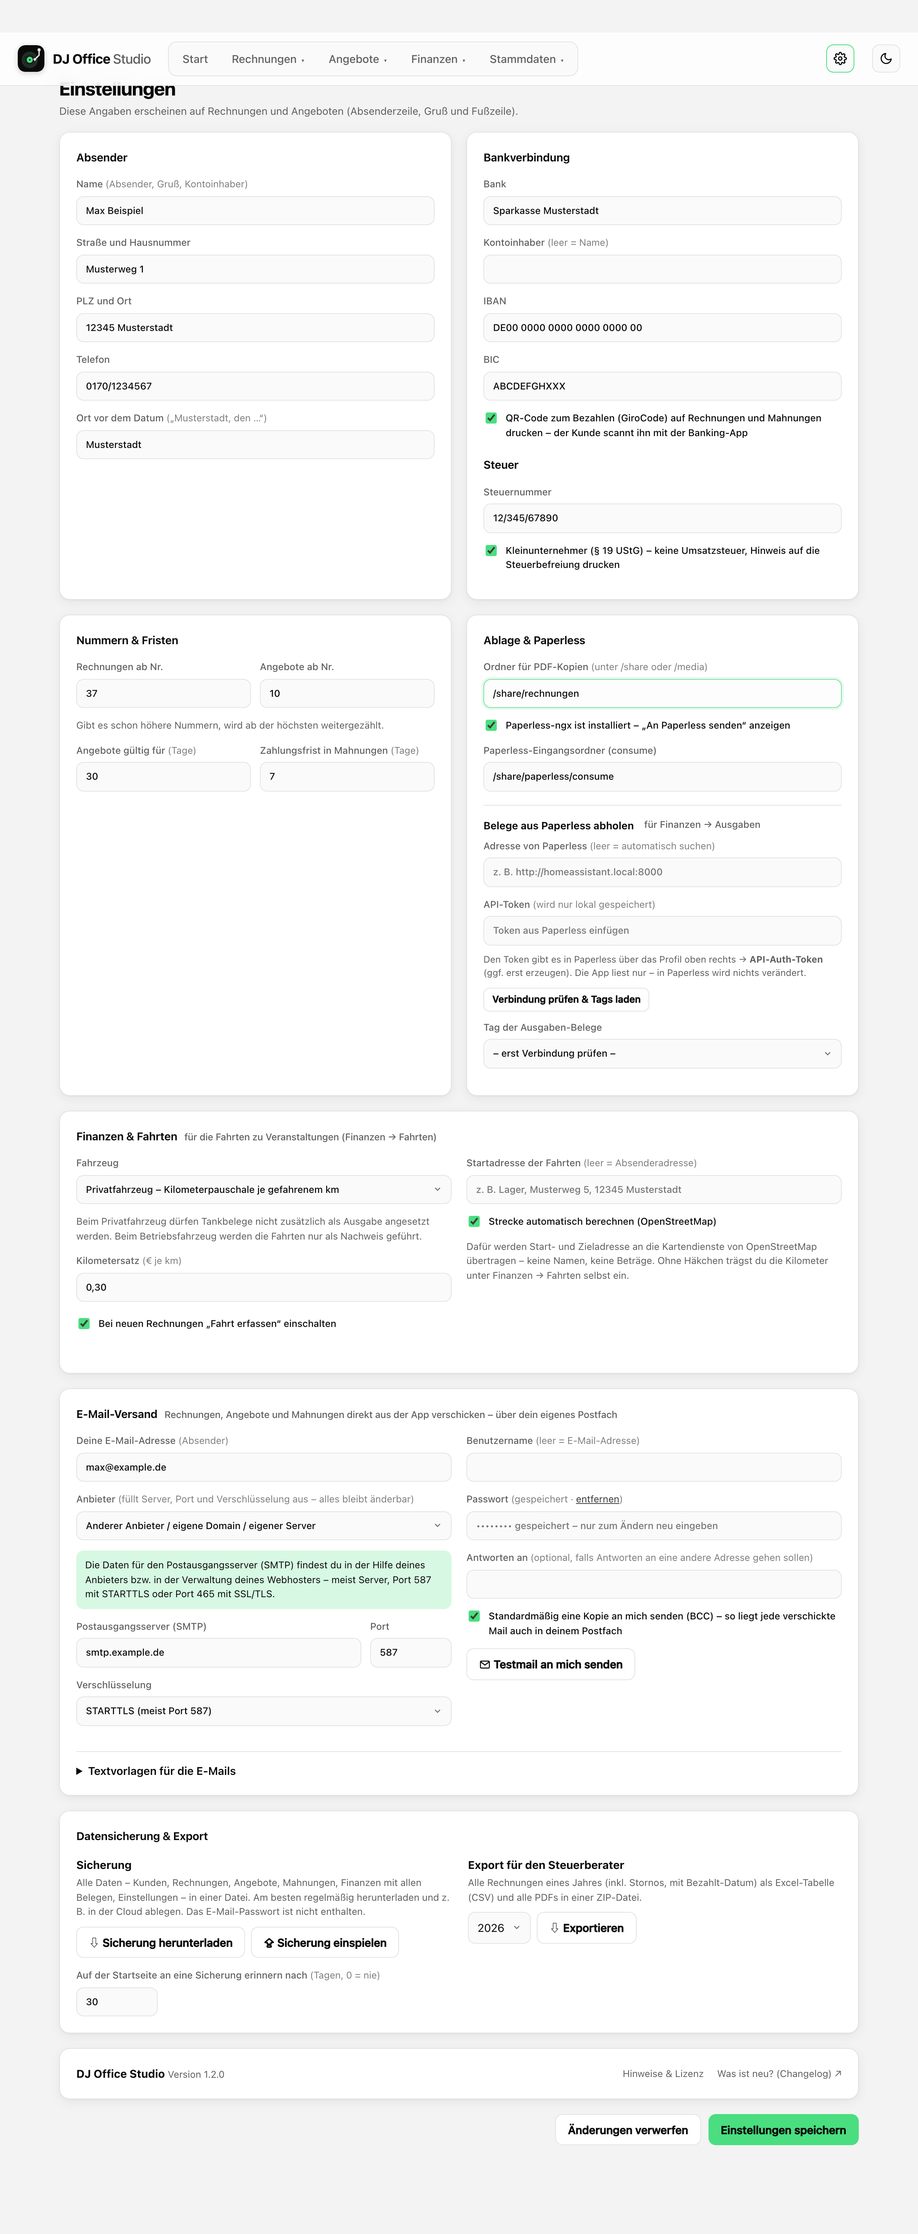
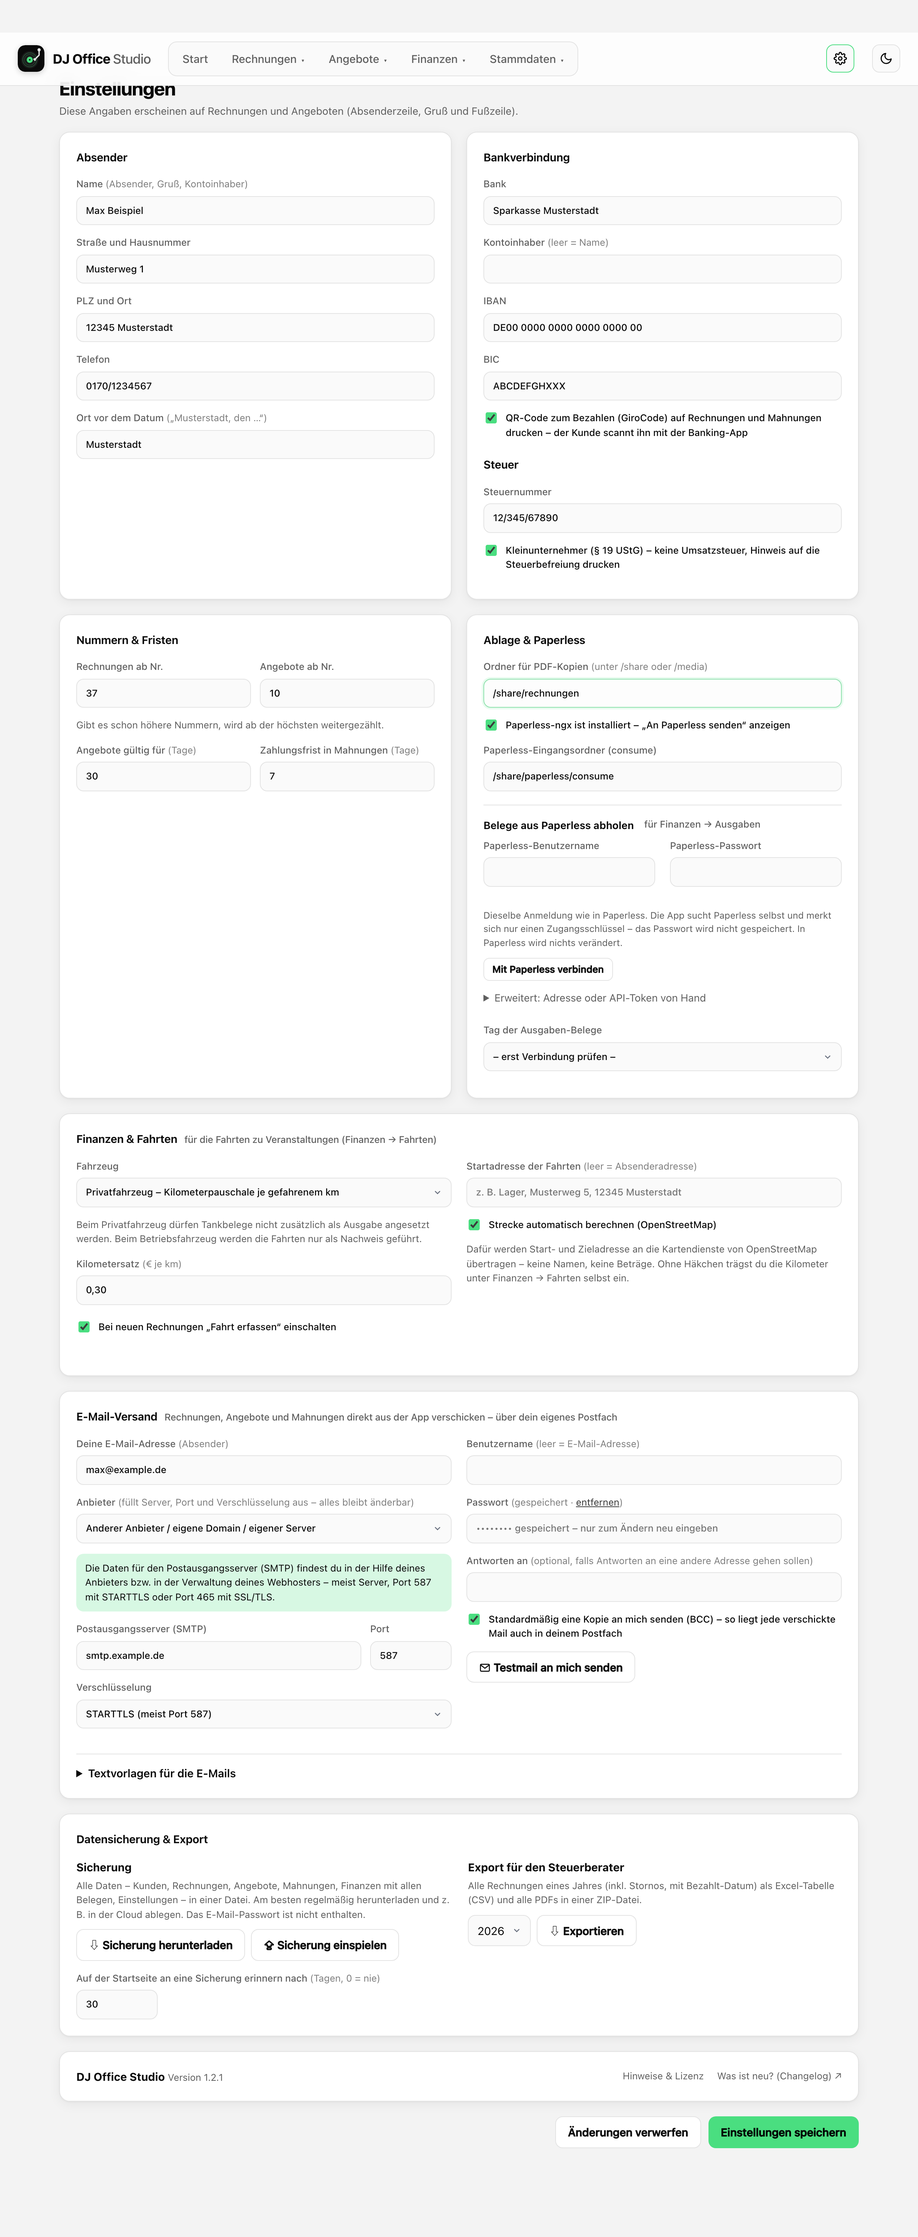
Version 1.2.1: Paperless-Add-on automatisch finden, Anmeldung mit Benutzername und Passwort

diff --git a/rechnungen/app/static/finanzen.js b/rechnungen/app/static/finanzen.js
@@ -817,11 +817,20 @@ function plEinstellungen(werte) {
   f.paperless_token.placeholder = werte.paperless_token_gesetzt ? "•••••••• gespeichert – nur zum Ändern neu eingeben" : "Token aus Paperless einfügen";
   $("#pl-token-status").textContent = werte.paperless_token_gesetzt ? "(gespeichert)" : "(wird nur lokal gespeichert)";
   plTagAuswahl(null, werte.paperless_tag, werte.paperless_tag_name);
+  const verbunden = werte.paperless_token_gesetzt && werte.paperless_url;
+  $("#pl-verbunden").hidden = !verbunden;
+  $("#pl-verbunden").textContent = verbunden ? `✓ Verbunden mit ${werte.paperless_url} – erneut anmelden nur bei Problemen.` : "";
+  $("#pl-verbinden").textContent = verbunden ? "Tags neu laden" : "Mit Paperless verbinden";
 }
 
-$("#einstellungen").elements.paperless_tag.addEventListener("change", e => {
-  const o = e.target.selectedOptions[0];
-  $("#einstellungen").elements.paperless_tag_name.value = Number(o.value) ? o.textContent.replace(/ \(\d+ Dokumente?\)$/, "") : "";
+$("#einstellungen").elements.paperless_tag.addEventListener("change", async e => {
+  const o = e.target.selectedOptions[0], f = $("#einstellungen").elements;
+  f.paperless_tag_name.value = Number(o.value) ? o.textContent.replace(/ \(\d+ Dokumente?\)$/, "") : "";
+  try {   // Tag sofort speichern – kein extra Klick auf „Speichern“ nötig
+    await api("einstellungen", { method: "PUT", body: { paperless_tag: o.value, paperless_tag_name: f.paperless_tag_name.value } });
+    await ladeAbsender();
+    if (Number(o.value)) toast(`Tag „${f.paperless_tag_name.value}“ gespeichert – unter Finanzen → Ausgaben „Aus Paperless abholen“`);
+  } catch (err) { toast(err.message, true); }
 });
 
 $("#pl-verbinden").addEventListener("click", async e => {
@@ -829,15 +838,22 @@ $("#pl-verbinden").addEventListener("click", async e => {
   btn.disabled = true;
   status.textContent = f.paperless_url.value.trim() ? "Verbinde …" : "Suche Paperless …";
   try {
-    const r = await api("paperless/verbinden", { method: "POST", body: { url: f.paperless_url.value.trim(), token: f.paperless_token.value.trim() } });
+    const r = await api("paperless/verbinden", { method: "POST", body: {
+      url: f.paperless_url.value.trim(), token: f.paperless_token.value.trim(),
+      benutzer: $("#pl-benutzer").value.trim(), passwort: $("#pl-passwort").value } });
     f.paperless_url.value = r.url;
+    $("#pl-passwort").value = "";
     if (!r.tags) { status.textContent = r.hinweis; return; }
+    if (r.token_gespeichert) plEinstellungen({ ...await api("einstellungen") });
     plTagAuswahl(r.tags, f.paperless_tag.value, f.paperless_tag_name.value);
-    status.textContent = `✓ Verbunden${r.gefunden ? " (automatisch gefunden)" : ""} – ${r.tags.length} Tags. Tag wählen und speichern.`;
-    if (!Number(f.paperless_tag.value)) {   // naheliegenden Tag vorschlagen
+    const gefunden = r.gefunden ? r.gefunden + " – " : "";
+    if (!Number(f.paperless_tag.value)) {   // naheliegenden Tag vorschlagen (wird sofort gespeichert)
       const v = r.tags.find(t => /ausgabe|beleg|eür|euer|steuer|rechnung/i.test(t.name));
       if (v) { f.paperless_tag.value = v.id; f.paperless_tag.dispatchEvent(new Event("change")); }
     }
+    status.textContent = Number(f.paperless_tag.value)
+      ? `✓ ${gefunden}verbunden. Tag „${f.paperless_tag_name.value}“ ist eingestellt – unten änderbar.`
+      : `✓ ${gefunden}verbunden. Jetzt unten den Tag deiner Ausgaben wählen.`;
   } catch (err) { status.textContent = ""; toast(err.message, true); }
   finally { btn.disabled = false; }
 });

diff --git a/rechnungen/app/static/index.html b/rechnungen/app/static/index.html
@@ -390,15 +390,23 @@
             <label>Paperless-Eingangsordner (consume) <span class="opt nur-desktop">(z. B. Netzlaufwerk von Paperless)</span><input name="paperless_eingangsordner" placeholder="/share/paperless/consume"></label>
             <div class="pl-belege">
               <h3>Belege aus Paperless abholen <span class="h2-sub">für Finanzen → Ausgaben</span></h3>
-              <label>Adresse von Paperless <span class="opt">(leer = automatisch suchen)</span>
-                <input name="paperless_url" placeholder="z. B. http://homeassistant.local:8000" autocomplete="off"></label>
-              <label>API-Token <span class="opt" id="pl-token-status"></span>
-                <input name="paperless_token" type="password" autocomplete="new-password"></label>
-              <p class="mini-hinweis">Den Token gibt es in Paperless über das Profil oben rechts → <b>API-Auth-Token</b> (ggf. erst erzeugen). Die App liest nur – in Paperless wird nichts verändert.</p>
+              <p class="hint pl-verbunden" id="pl-verbunden" hidden></p>
+              <div class="grid2 pl-anmeldung">
+                <label>Paperless-Benutzername<input id="pl-benutzer" autocomplete="off"></label>
+                <label>Paperless-Passwort<input id="pl-passwort" type="password" autocomplete="new-password"></label>
+              </div>
+              <p class="mini-hinweis">Dieselbe Anmeldung wie in Paperless. Die App sucht Paperless selbst und merkt sich nur einen Zugangsschlüssel – das Passwort wird nicht gespeichert. In Paperless wird nichts verändert.</p>
               <div class="row pl-verbinden-zeile">
-                <button type="button" class="small secondary" id="pl-verbinden">Verbindung prüfen &amp; Tags laden</button>
+                <button type="button" class="small secondary" id="pl-verbinden">Mit Paperless verbinden</button>
                 <span class="hint" id="pl-verbinden-status"></span>
               </div>
+              <details class="pl-erweitert">
+                <summary>Erweitert: Adresse oder API-Token von Hand</summary>
+                <label>Adresse von Paperless <span class="opt">(leer = automatisch suchen)</span>
+                  <input name="paperless_url" placeholder="z. B. http://homeassistant.local:8000" autocomplete="off"></label>
+                <label>API-Token <span class="opt" id="pl-token-status"></span>
+                  <input name="paperless_token" type="password" autocomplete="new-password"></label>
+              </details>
               <label>Tag der Ausgaben-Belege
                 <select name="paperless_tag"><option value="0">– erst Verbindung prüfen –</option></select></label>
               <input type="hidden" name="paperless_tag_name">

diff --git a/rechnungen/app/static/style.css b/rechnungen/app/static/style.css
@@ -656,3 +656,7 @@ table.euer-tabelle tr.gewinn td { font-weight: 800; font-size: 17px; border-top:
 .pl-verbinden-zeile { align-items: center; gap: 12px; margin-bottom: 12px; }
 .pl-verbinden-zeile .hint { margin: 0; }
 #pl-verbinden { white-space: nowrap; flex: none; }
+.pl-anmeldung { margin-bottom: 0; }
+.pl-verbunden { color: var(--text); margin: 0 0 10px; }
+.pl-erweitert { margin: 4px 0 14px; font-size: 14px; }
+.pl-erweitert summary { cursor: pointer; color: var(--muted); margin-bottom: 10px; }

diff --git a/rechnungen/app/paperless.py b/rechnungen/app/paperless.py
@@ -4,6 +4,7 @@ Anmeldung mit dem API-Token aus Paperless (Profil → API-Token). Die App holt D
 als Ausgaben-Belege ab; an Paperless selbst wird nichts geändert.
 """
 import json
+import os
 import re
 import urllib.error
 import urllib.parse
@@ -18,6 +19,9 @@ KANDIDATEN = (
     "http://homeassistant:8000",
     "http://localhost:8000",
 )
+
+
+BEKANNTE_ADDONS = ("ca5234a0_paperless-ngx", "db21ed7f_paperless_ngx")
 
 
 class PaperlessFehler(Exception):
@@ -86,8 +90,76 @@ def erreichbar(url, timeout=3):
         return False
 
 
+def _supervisor(pfad):
+    """Supervisor-Schnittstelle von Home Assistant (nur im Add-on; braucht „hassio_api: true“)."""
+    token = os.environ.get("SUPERVISOR_TOKEN")
+    if not token:
+        return None
+    req = urllib.request.Request("http://supervisor" + pfad, headers={"Authorization": f"Bearer {token}"})
+    try:
+        with urllib.request.urlopen(req, timeout=5) as r:
+            return json.loads(r.read()).get("data")
+    except Exception:
+        return None
+
+
+def addon_kandidaten():
+    """Installierte Paperless-Add-ons → [(name, läuft, [Adressen])]. Hostname und Ports liefert der Supervisor."""
+    # Die Liste der installierten Add-ons steht in /info (für jedes Add-on lesbar; /addons bräuchte mehr Rechte).
+    # Zur Sicherheit auch die bekannten Paperless-Add-ons direkt abfragen.
+    liste = list((_supervisor("/info") or {}).get("addons") or [])
+    for slug in BEKANNTE_ADDONS:
+        if not any(a.get("slug") == slug for a in liste) and _supervisor(f"/addons/{slug}/info"):
+            liste.append({"slug": slug, "name": "Paperless-ngx"})
+    ergebnis = []
+    for a in liste:
+        if "paperless" not in (a.get("slug", "") + " " + a.get("name", "")).lower():
+            continue
+        info = _supervisor(f"/addons/{a['slug']}/info") or {}
+        if not info and a.get("name") == "Paperless-ngx" and a["slug"] in BEKANNTE_ADDONS:
+            continue
+        hosts = [h for h in (info.get("hostname"), info.get("ip_address"), a["slug"].replace("_", "-")) if h]
+        ports = [int(str(k).split("/")[0]) for k in (info.get("network") or {})]   # Ports im Container, z. B. „8000/tcp“
+        ports += [p for p in (8000, info.get("ingress_port")) if p and p not in ports]
+        ergebnis.append((a.get("name") or a["slug"], (info.get("state") or a.get("state")) == "started",
+                         [f"http://{h}:{p}" for h in dict.fromkeys(hosts) for p in ports]))
+    return ergebnis
+
+
 def suchen():
-    return next((u for u in KANDIDATEN if erreichbar(u)), None)
+    """Paperless finden → (adresse | None, hinweis). Zuerst über Home Assistant, dann übliche Adressen im Heimnetz."""
+    addons = addon_kandidaten()
+    for name, laeuft, adressen in addons:
+        for u in adressen:
+            if erreichbar(u):
+                return u, f"Add-on „{name}“ gefunden"
+    if addons and not any(laeuft for _, laeuft, _ in addons):
+        return None, f"Das Add-on „{addons[0][0]}“ ist installiert, läuft aber nicht – bitte in Home Assistant starten."
+    for u in KANDIDATEN:
+        if erreichbar(u):
+            return u, "Paperless gefunden"
+    if addons:
+        return None, f"Das Add-on „{addons[0][0]}“ antwortet nicht – bitte die Adresse von Hand eintragen."
+    return None, "Paperless wurde nicht gefunden – bitte die Adresse eintragen (z. B. http://homeassistant.local:8000)."
+
+
+def token_holen(url, benutzer, passwort, ssl_kontext=None):
+    """API-Token mit Benutzername und Passwort von Paperless abrufen (das Passwort wird nicht gespeichert)."""
+    req = urllib.request.Request(adresse(url) + "/api/token/", method="POST",
+                                 data=urllib.parse.urlencode({"username": benutzer, "password": passwort}).encode(),
+                                 headers={"Accept": "application/json", "Content-Type": "application/x-www-form-urlencoded"})
+    try:
+        with urllib.request.urlopen(req, timeout=15, context=ssl_kontext) as r:
+            token = json.loads(r.read()).get("token")
+    except urllib.error.HTTPError as e:
+        if e.code == 400:
+            raise PaperlessFehler("Benutzername oder Passwort stimmt nicht") from e
+        raise PaperlessFehler(f"Paperless meldet Fehler {e.code}") from e
+    except (urllib.error.URLError, OSError, ValueError) as e:
+        raise PaperlessFehler("Paperless ist nicht erreichbar") from e
+    if not token:
+        raise PaperlessFehler("Paperless hat keinen Token geliefert")
+    return token
 
 
 def tags(url, token, ssl_kontext=None):

diff --git a/tests/test_paperless_belege.py b/tests/test_paperless_belege.py
@@ -49,6 +49,15 @@ class FakePaperless(BaseHTTPRequestHandler):
         self.end_headers()
         self.wfile.write(roh)
 
+    def do_POST(self):
+        if self.path == "/api/token/":
+            laenge = int(self.headers.get("Content-Length") or 0)
+            q = {k: v[0] for k, v in parse_qs(self.rfile.read(laenge).decode()).items()}
+            if q.get("username") == "max" and q.get("password") == "pw":
+                return self._json({"token": TOKEN})
+            return self._json({"non_field_errors": ["Unable to log in with provided credentials."]}, 400)
+        self._json({"detail": "Nicht gefunden."}, 404)
+
     def do_GET(self):
         teile = urlsplit(self.path)
         q = {k: v[0] for k, v in parse_qs(teile.query).items()}
@@ -101,7 +110,7 @@ def test_verbinden_laedt_tags_und_prueft_token(client, paperless_server):
     r = client.post("/api/paperless/verbinden", json={"url": paperless_server, "token": TOKEN}).get_json()
     assert [t["name"] for t in r["tags"]] == ["Ausgaben DJ", "Privat"]
     r = client.post("/api/paperless/verbinden", json={"url": paperless_server}).get_json()      # ohne Token
-    assert r["tags"] is None and "Token" in r["hinweis"]
+    assert r["tags"] is None and "anmelden" in r["hinweis"]
     r = client.post("/api/paperless/verbinden", json={"url": "http://127.0.0.1:9", "token": TOKEN})
     assert r.status_code == 400 and "nicht erreichbar" in r.get_json()["error"]
 
@@ -150,3 +159,46 @@ def test_abholen_ohne_einrichtung_und_mit_falschem_token(client, paperless_serve
     st = client.post("/api/paperless/abholen").get_json()
     assert "Token" in st["abbruch"] and not st["laeuft"]
     assert client.post("/api/paperless/abholen").get_json()["abbruch"]                         # Sperre wieder frei
+
+
+def _supervisor_mit(monkeypatch, port, state="started"):
+    """Home Assistant nachbilden: ein installiertes Paperless-Add-on, dessen Container-Port auf den Testserver zeigt."""
+    import paperless
+    monkeypatch.setenv("SUPERVISOR_TOKEN", "sv")
+    antworten = {"/info": {"addons": [{"slug": "dbcd1234_samba", "name": "Samba share"},
+                                        {"slug": "ca5234a0_paperless-ngx", "name": "Paperless-ngx", "state": state}]},
+                 "/addons/ca5234a0_paperless-ngx/info": {"hostname": "127.0.0.1", "network": {f"{port}/tcp": None},
+                                                         "ingress_port": 8099, "state": state}}
+    monkeypatch.setattr(paperless, "_supervisor", lambda pfad: antworten.get(pfad))
+    monkeypatch.setattr(paperless, "KANDIDATEN", ())
+
+
+def test_findet_addon_und_meldet_mit_benutzer_an(client, paperless_server, monkeypatch):
+    _supervisor_mit(monkeypatch, paperless_server.rsplit(":", 1)[1])
+    r = client.post("/api/paperless/verbinden", json={"benutzer": "max", "passwort": "pw"}).get_json()
+    assert r["url"] == paperless_server and "Paperless-ngx" in r["gefunden"] and r["token_gespeichert"]
+    assert [t["name"] for t in r["tags"]] == ["Ausgaben DJ", "Privat"]
+    r = client.post("/api/paperless/verbinden", json={"benutzer": "max", "passwort": "falsch"})   # Adresse jetzt gemerkt
+    assert r.status_code == 400 and "Passwort" in r.get_json()["error"]
+    e = client.get("/api/einstellungen").get_json()                                          # Adresse und Token gemerkt,
+    assert e["paperless_url"] == paperless_server and e["paperless_token_gesetzt"]           # Passwort nicht
+    import db
+    assert "pw" not in json.dumps(db.get_settings())
+    client.put("/api/einstellungen", json={"paperless_tag": "7", "paperless_tag_name": "Ausgaben DJ"})
+    import finanzen
+    monkeypatch.setattr(finanzen, "HINTERGRUND", False)
+    assert client.post("/api/paperless/abholen").get_json()["neu"] == 2
+
+
+def test_addon_laeuft_nicht(client, monkeypatch):
+    _supervisor_mit(monkeypatch, 9, state="stopped")
+    r = client.post("/api/paperless/verbinden", json={"benutzer": "max", "passwort": "pw"})
+    assert r.status_code == 400 and "läuft aber nicht" in r.get_json()["error"]
+
+
+def test_ohne_home_assistant_klare_meldung(client, monkeypatch):
+    import paperless
+    monkeypatch.delenv("SUPERVISOR_TOKEN", raising=False)
+    monkeypatch.setattr(paperless, "KANDIDATEN", ())
+    r = client.post("/api/paperless/verbinden", json={})
+    assert r.status_code == 400 and "nicht gefunden" in r.get_json()["error"]

diff --git a/rechnungen/app/finanzen.py b/rechnungen/app/finanzen.py
@@ -1214,16 +1214,21 @@ def paperless_verbinden():
     url, token = _pl_zugang(d)
     gefunden = None
     if not url:
-        url = gefunden = paperless.suchen()
+        url, gefunden = paperless.suchen()
         if not url:
-            return _fehler("Paperless wurde nicht automatisch gefunden – bitte die Adresse eintragen "
-                           "(z. B. http://homeassistant.local:8000).")
-    if not token:
-        if paperless.erreichbar(url):
-            return jsonify({"url": url, "gefunden": bool(gefunden), "tags": None,
-                            "hinweis": "Paperless gefunden – jetzt noch den API-Token eintragen."})
-        return _fehler(f"Unter {url} antwortet kein Paperless.")
+            return _fehler(gefunden)
+        db.save_settings({"paperless_url": url})            # gefundene Adresse gleich merken
+    benutzer, passwort = (d.get("benutzer") or "").strip(), d.get("passwort") or ""
     try:
-        return jsonify({"url": url, "gefunden": bool(gefunden), "tags": paperless.tags(url, token, _pl_https(url))})
+        if benutzer and passwort:                          # Anmeldung statt Token: Token holen und speichern
+            token = paperless.token_holen(url, benutzer, passwort, _pl_https(url))
+            db.save_settings({"paperless_token": token})
+        if not token:
+            if paperless.erreichbar(url):
+                return jsonify({"url": url, "gefunden": gefunden, "tags": None,
+                                "hinweis": f"{gefunden or 'Paperless erreichbar'} – jetzt mit Benutzername und Passwort anmelden."})
+            return _fehler(f"Unter {url} antwortet kein Paperless.")
+        return jsonify({"url": url, "gefunden": gefunden, "token_gespeichert": bool(benutzer and passwort),
+                        "tags": paperless.tags(url, token, _pl_https(url))})
     except paperless.PaperlessFehler as e:
         return _fehler(str(e))

diff --git a/README.md b/README.md
@@ -131,9 +131,10 @@ Ist unter ⚙ Einstellungen „Paperless-ngx ist installiert“ eingeschaltet, g
 
 **Ausgaben-Belege aus Paperless abholen** (Finanzen → Ausgaben): Liegen Rechnungen und Quittungen schon in Paperless und tragen dort einen Tag (z. B. „Ausgaben“), holt die App sie mit **⇩ Aus Paperless abholen** in die Ausgaben. Einrichten unter ⚙ Einstellungen → Ablage & Paperless:
 
-1. **Adresse von Paperless** eintragen – oder leer lassen, dann sucht die App das Paperless-Add-on in Home Assistant selbst. Für die Desktop-Version die Adresse im Heimnetz, z. B. `http://homeassistant.local:8000` (dafür muss das Add-on seinen Port freigeben).
-2. **API-Token** eintragen: in Paperless oben rechts über das Profil → *API-Auth-Token* (ggf. erst erzeugen).
-3. **Verbindung prüfen & Tags laden**, den Tag der Ausgaben-Belege wählen, speichern.
+1. **Paperless-Benutzername und -Passwort** eintragen (dieselbe Anmeldung wie in Paperless) und **Mit Paperless verbinden** klicken. Die App findet das Paperless-Add-on in Home Assistant selbst, holt sich einen Zugangsschlüssel (API-Token) und speichert das Passwort nicht.
+2. Den **Tag der Ausgaben-Belege** wählen – heißt ein Tag z. B. „Ausgaben“ oder „Belege“, ist er schon vorausgewählt. Die Auswahl wird sofort gespeichert.
+
+Unter *Erweitert* lassen sich Adresse und API-Token auch von Hand eintragen – nötig für die **Desktop-Version** (Adresse im Heimnetz, z. B. `http://homeassistant.local:8000`; dafür muss das Add-on seinen Port freigeben) oder wenn Paperless nicht als Add-on läuft. In Home Assistant fragt die App dafür den Supervisor nach den installierten Add-ons (Berechtigung `hassio_api`, nur lesend).
 
 Beim Abholen kommen alle Dokumente mit dem Tag – auch aus früheren Jahren –, die noch nicht übernommen sind. Die App speichert eine Kopie (die PDF mit Texterkennung aus Paperless), damit Export und Sicherung auch ohne laufendes Paperless funktionieren. Lieferant (Korrespondent) und Datum kommen aus Paperless, der Betrag wird aus dem Text gelesen; die Belege stehen dann unter **Neu – bitte prüfen**. Wurde ein Beleg schon von Hand hochgeladen, wird er nur verknüpft und nicht doppelt angelegt. In Paperless wird nichts verändert. Der API-Token wird wie das E-Mail-Passwort nur lokal gespeichert und ist nicht in der Sicherung enthalten.
 

diff --git a/rechnungen/CHANGELOG.md b/rechnungen/CHANGELOG.md
@@ -2,6 +2,13 @@
 
 Alle Änderungen an DJ Office Studio. Neueste Version oben.
 
+## 1.2.1 – 2026-11-20
+
+### Verbessert
+- **Paperless einfacher verbinden**: Statt Adresse und API-Token reicht jetzt die normale Paperless-Anmeldung (Benutzername und Passwort). Die App holt sich damit einen Zugangsschlüssel – das Passwort wird nicht gespeichert.
+- **Paperless-Add-on wird automatisch gefunden**: Die App fragt Home Assistant, welche Add-ons installiert sind, und nimmt Adresse und Port vom Paperless-Add-on. Läuft das Add-on nicht, sagt die Meldung das. Dafür braucht das Add-on die Berechtigung, die Liste der Add-ons zu lesen (`hassio_api`).
+- Der Tag der Ausgaben-Belege wird sofort gespeichert; heißt er z. B. „Ausgaben“ oder „Belege“, ist er schon vorausgewählt. Adresse und Token von Hand gibt es weiterhin unter „Erweitert“ (z. B. für die Desktop-Version).
+
 ## 1.2.0 – 2026-11-20
 
 ### Neu
